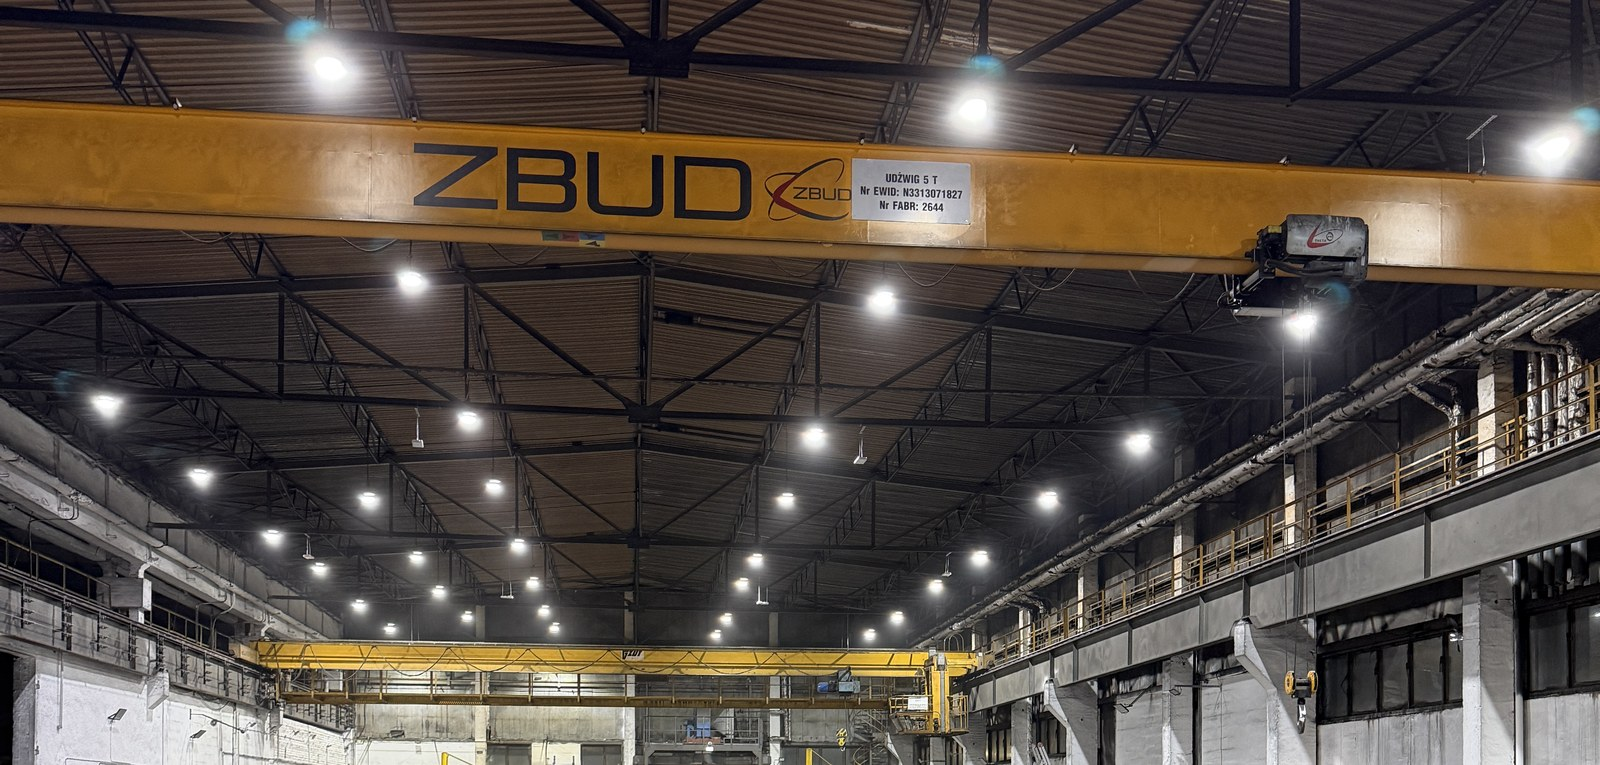
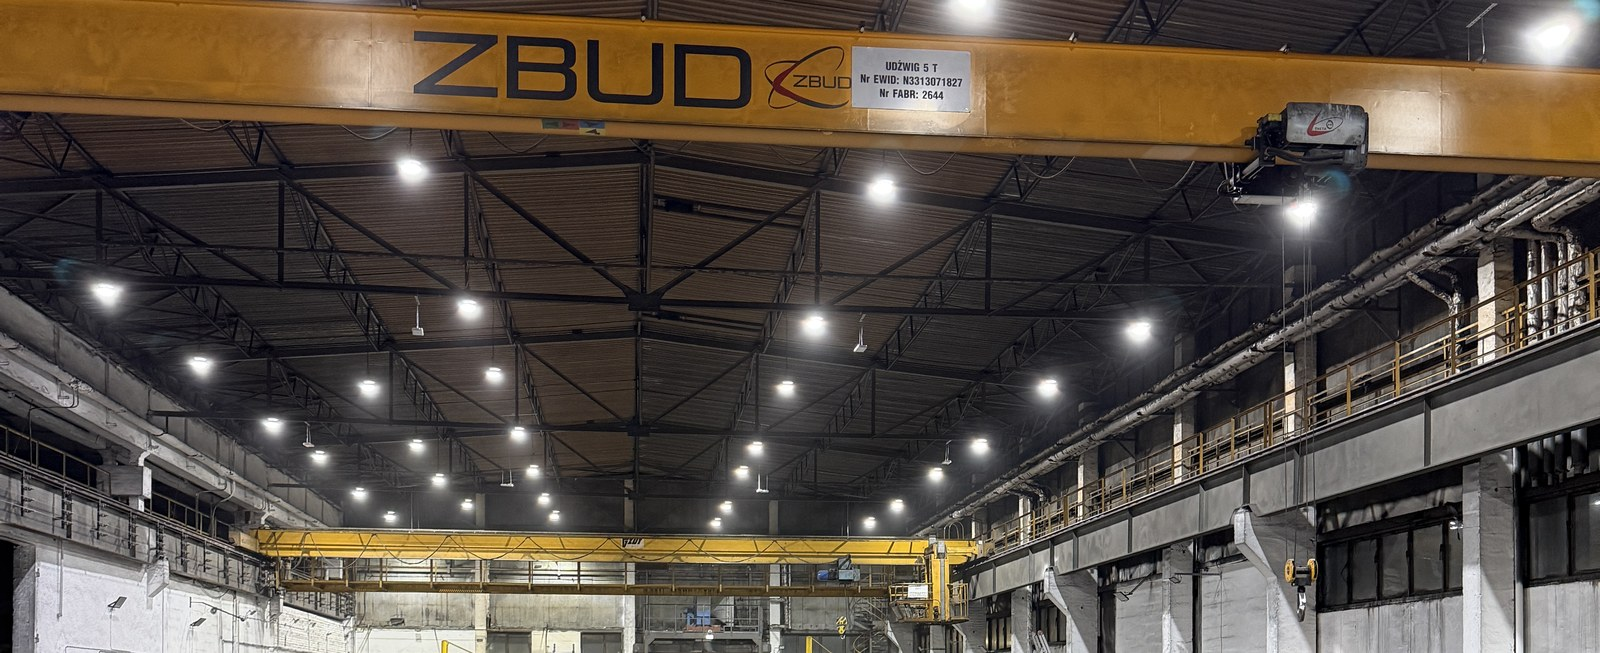
feat: show more of hall below crane without pipes/excess floor and remove subtitles in portfolio cards

diff --git a/index.html b/index.html
@@ -307,19 +307,13 @@
       <div class="gallery-grid" style="margin-bottom: 28px;">
         <div class="gallery-item">
           <div class="gallery-img-wrap">
-            <img src="./assets/images/realizacje/realizacja-01.jpg" alt="Belki spawane — montaż i spawanie z wykorzystaniem suwnicy 5t" data-lightbox="./assets/images/realizacje/realizacja-01.jpg" data-caption="Belki spawane — montaż i spawanie z wykorzystaniem suwnicy 5 ton na hali produkcyjnej w Stalowej Woli" style="cursor: pointer;">
-          </div>
-          <div class="gallery-info">
-            <div class="gallery-title">Belki spawane</div>
+            <img src="./assets/images/realizacje/realizacja-01.jpg" alt="Montaż i spawanie konstrukcji stalowych pod suwnicą 5t" data-lightbox="./assets/images/realizacje/realizacja-01.jpg" data-caption="Montaż i spawanie konstrukcji stalowych pod suwnicą 5 ton na hali produkcyjnej w Stalowej Woli" style="cursor: pointer;">
           </div>
         </div>
 
         <div class="gallery-item">
           <div class="gallery-img-wrap">
-            <img src="./assets/images/realizacje/realizacja-02.jpg" alt="Belki spawane — precyzyjne pasowanie elementów i użebrowanie" data-lightbox="./assets/images/realizacje/realizacja-02.jpg" data-caption="Belki spawane — precyzyjne pasowanie elementów i użebrowanie konstrukcji stalowej na stanowisku montażowym" style="cursor: pointer;">
-          </div>
-          <div class="gallery-info">
-            <div class="gallery-title">Belki spawane</div>
+            <img src="./assets/images/realizacje/realizacja-02.jpg" alt="Precyzyjne pasowanie elementów i użebrowanie konstrukcji stalowej" data-lightbox="./assets/images/realizacje/realizacja-02.jpg" data-caption="Precyzyjne pasowanie elementów i użebrowanie konstrukcji stalowej na stanowisku montażowym" style="cursor: pointer;">
           </div>
         </div>
       </div>

diff --git a/realizacje.html b/realizacje.html
@@ -136,19 +136,13 @@
       <div class="gallery-grid" style="margin-bottom: 40px;">
         <div class="gallery-item">
           <div class="gallery-img-wrap">
-            <img src="./assets/images/realizacje/realizacja-01.jpg" alt="Belki spawane — montaż i spawanie z wykorzystaniem suwnicy 5 ton" data-lightbox="./assets/images/realizacje/realizacja-01.jpg" data-caption="Belki spawane — montaż i spawanie pod suwnicą 5 ton na hali produkcyjnej w Stalowej Woli" style="cursor: pointer;">
-          </div>
-          <div class="gallery-info">
-            <div class="gallery-title">Belki spawane</div>
+            <img src="./assets/images/realizacje/realizacja-01.jpg" alt="Montaż i spawanie konstrukcji stalowych pod suwnicą 5t" data-lightbox="./assets/images/realizacje/realizacja-01.jpg" data-caption="Montaż i spawanie konstrukcji stalowych pod suwnicą 5 ton na hali produkcyjnej w Stalowej Woli" style="cursor: pointer;">
           </div>
         </div>
 
         <div class="gallery-item">
           <div class="gallery-img-wrap">
-            <img src="./assets/images/realizacje/realizacja-02.jpg" alt="Belki spawane — precyzyjne pasowanie elementów i użebrowanie" data-lightbox="./assets/images/realizacje/realizacja-02.jpg" data-caption="Belki spawane — precyzyjne pasowanie elementów i użebrowanie konstrukcji stalowej na stanowisku montażowym" style="cursor: pointer;">
-          </div>
-          <div class="gallery-info">
-            <div class="gallery-title">Belki spawane</div>
+            <img src="./assets/images/realizacje/realizacja-02.jpg" alt="Precyzyjne pasowanie elementów i użebrowanie konstrukcji stalowej" data-lightbox="./assets/images/realizacje/realizacja-02.jpg" data-caption="Precyzyjne pasowanie elementów i użebrowanie konstrukcji stalowej na stanowisku montażowym" style="cursor: pointer;">
           </div>
         </div>
       </div>

diff --git a/en/projects.html b/en/projects.html
@@ -125,19 +125,13 @@
       <div class="gallery-grid" style="margin-bottom: 40px;">
         <div class="gallery-item">
           <div class="gallery-img-wrap">
-            <img src="../assets/images/realizacje/realizacja-01.jpg" alt="Welded Beams — assembly and welding under 5-ton overhead crane" data-lightbox="../assets/images/realizacje/realizacja-01.jpg" data-caption="Welded Beams — fitting and welding under 5-ton overhead crane in Stalowa Wola" style="cursor: pointer;">
-          </div>
-          <div class="gallery-info">
-            <div class="gallery-title">Welded Beams</div>
+            <img src="../assets/images/realizacje/realizacja-01.jpg" alt="Structural steel assembly and welding under 5-ton overhead crane" data-lightbox="../assets/images/realizacje/realizacja-01.jpg" data-caption="Structural steel assembly and welding under 5-ton overhead crane in Stalowa Wola" style="cursor: pointer;">
           </div>
         </div>
 
         <div class="gallery-item">
           <div class="gallery-img-wrap">
-            <img src="../assets/images/realizacje/realizacja-02.jpg" alt="Welded Beams — precision fit-up and ribbing" data-lightbox="../assets/images/realizacje/realizacja-02.jpg" data-caption="Welded Beams — precision fit-up and internal stiffening ribs on assembly workstation" style="cursor: pointer;">
-          </div>
-          <div class="gallery-info">
-            <div class="gallery-title">Welded Beams</div>
+            <img src="../assets/images/realizacje/realizacja-02.jpg" alt="Precision fit-up and ribbing of heavy welded steel structure" data-lightbox="../assets/images/realizacje/realizacja-02.jpg" data-caption="Precision fit-up and internal stiffening ribs on assembly workstation" style="cursor: pointer;">
           </div>
         </div>
       </div>

diff --git a/en/index.html b/en/index.html
@@ -296,19 +296,13 @@
       <div class="gallery-grid" style="margin-bottom: 28px;">
         <div class="gallery-item">
           <div class="gallery-img-wrap">
-            <img src="../assets/images/realizacje/realizacja-01.jpg" alt="Welded Beams — assembly and welding under 5t crane" data-lightbox="../assets/images/realizacje/realizacja-01.jpg" data-caption="Welded Beams — assembly and welding with 5t crane in Stalowa Wola workshop" style="cursor: pointer;">
-          </div>
-          <div class="gallery-info">
-            <div class="gallery-title">Welded Beams</div>
+            <img src="../assets/images/realizacje/realizacja-01.jpg" alt="Structural steel assembly and welding under 5-ton crane" data-lightbox="../assets/images/realizacje/realizacja-01.jpg" data-caption="Structural steel assembly and welding with 5t crane in Stalowa Wola workshop" style="cursor: pointer;">
           </div>
         </div>
 
         <div class="gallery-item">
           <div class="gallery-img-wrap">
-            <img src="../assets/images/realizacje/realizacja-02.jpg" alt="Welded Beams — precision fit-up and ribbing" data-lightbox="../assets/images/realizacje/realizacja-02.jpg" data-caption="Welded Beams — precision fit-up and internal stiffening ribs on assembly workstation" style="cursor: pointer;">
-          </div>
-          <div class="gallery-info">
-            <div class="gallery-title">Welded Beams</div>
+            <img src="../assets/images/realizacje/realizacja-02.jpg" alt="Precision fit-up and ribbing of steel structure" data-lightbox="../assets/images/realizacje/realizacja-02.jpg" data-caption="Precision fit-up and internal stiffening ribs on assembly workstation" style="cursor: pointer;">
           </div>
         </div>
       </div>

diff --git a/assets/css/style.css b/assets/css/style.css
@@ -662,7 +662,7 @@ ul {
 .facility-banner-content {
   position: relative;
   z-index: 2;
-  padding: 48px 44px;
+  padding: 54px 46px;
   max-width: 860px;
 }
 
@@ -812,20 +812,28 @@ ul {
 }
 
 .gallery-item:hover {
-  transform: translateY(-3px);
+  transform: translateY(-4px);
   box-shadow: var(--shadow-md);
   border-color: #86EFAC;
 }
 
 .gallery-img-wrap {
-  height: 230px;
+  aspect-ratio: 16 / 11;
+  height: auto;
   overflow: hidden;
+  background-color: #0F172A;
 }
 
 .gallery-img-wrap img {
   width: 100%;
   height: 100%;
   object-fit: cover;
+  display: block;
+  transition: transform 0.35s ease;
+}
+
+.gallery-item:hover .gallery-img-wrap img {
+  transform: scale(1.025);
 }
 
 .gallery-info {
@@ -1521,7 +1529,8 @@ ul {
   }
 
   .gallery-img-wrap {
-    height: 210px;
+    aspect-ratio: 16 / 11;
+    height: auto;
   }
 
   .gallery-info {
